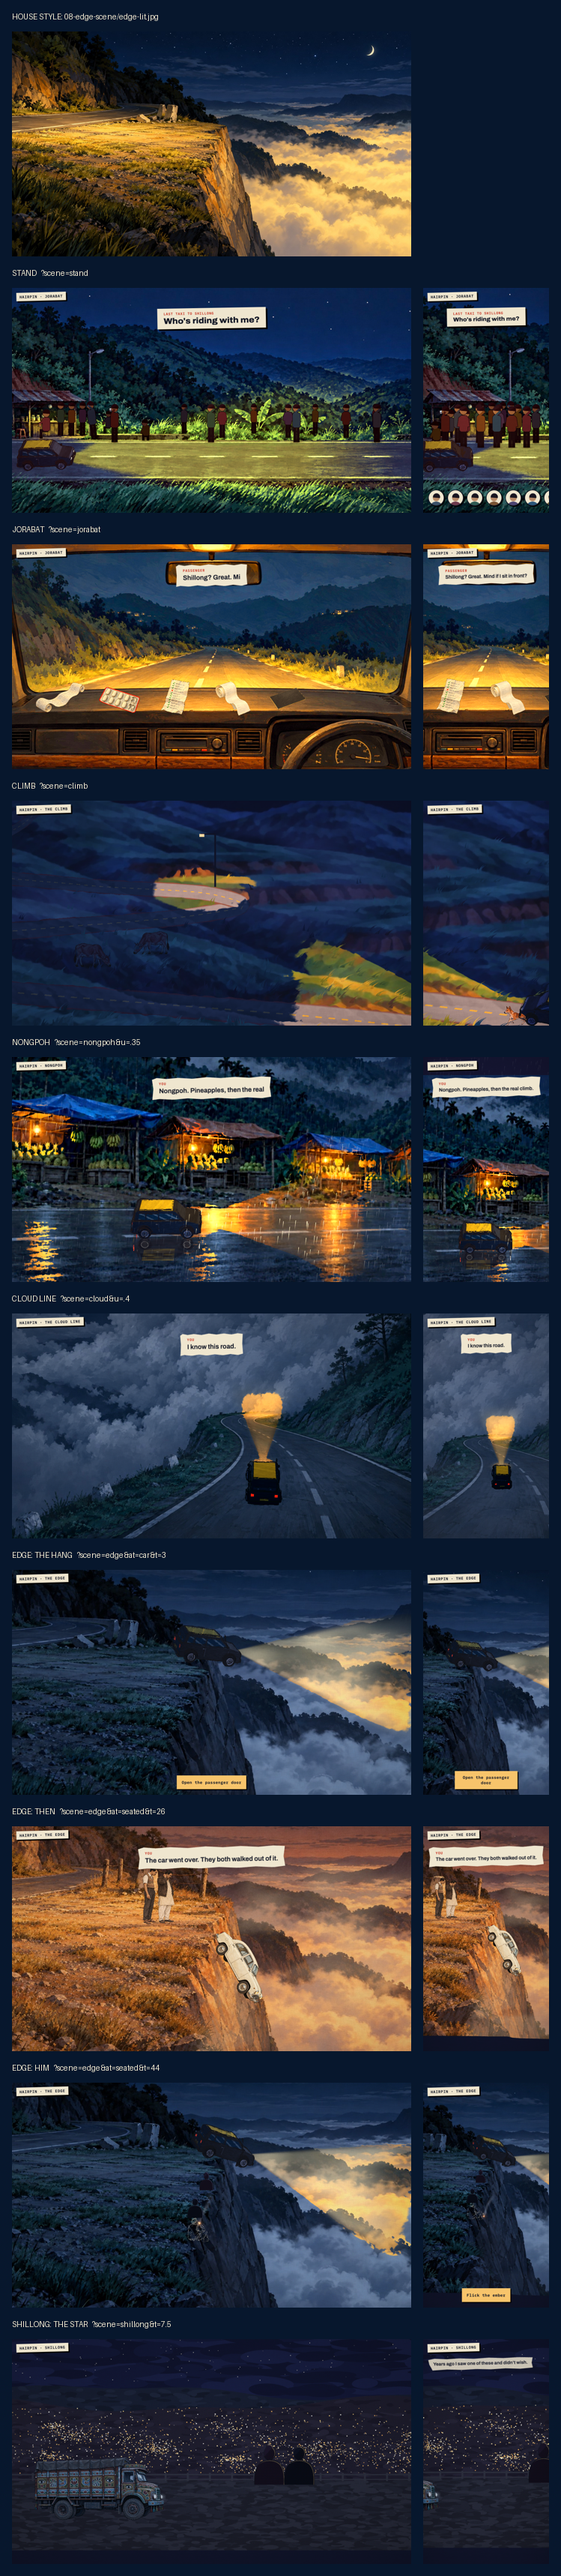
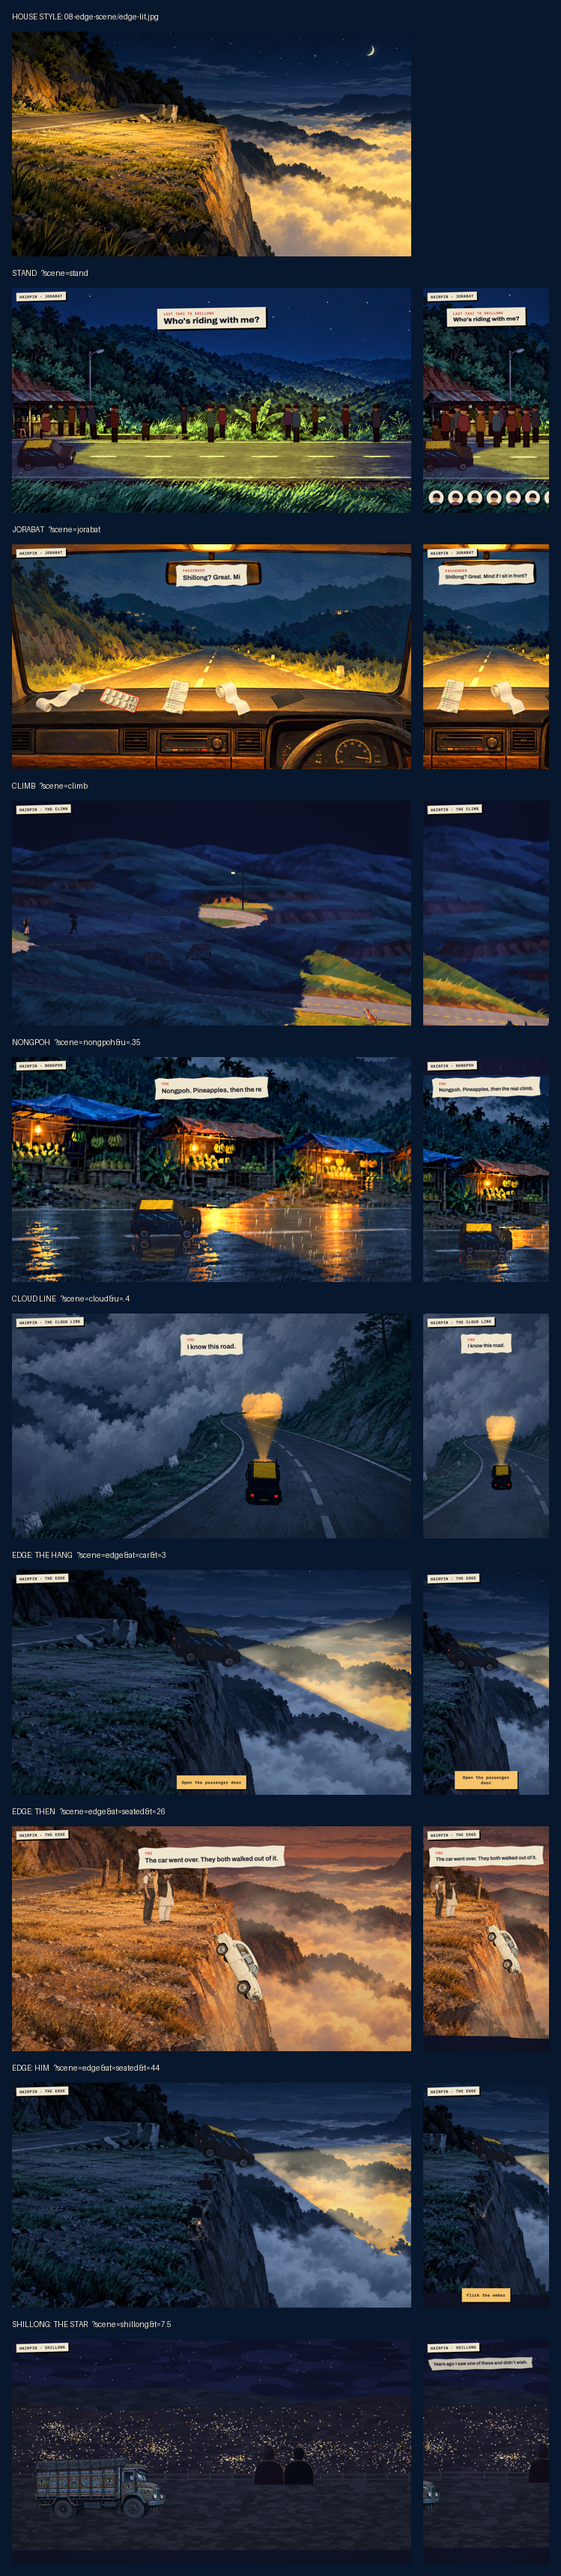
The climb's dog barks before it gives chase
Three painted bark frames (lit and dark) replace the still sitting dog when
the taxi comes up the road or the horn sounds. The chase waits for the bark
to finish, so the whole bark plays before the dog runs.

diff --git a/01-cloud-line-scene/scene.js b/01-cloud-line-scene/scene.js
@@ -5,7 +5,7 @@ import { disposeScene, makeTaxi, colorize, Stage, loadImg as loadImage, keyLight
 import { CLIMB_STANDINS as C } from '../shared/style.js';
 
 const at = f => new URL(f, import.meta.url).href;
-const SPRITES = ['cow-graze', 'cow-look', 'dog-sit', 'dog-run-1', 'dog-run-2', 'walker-1', 'walker-2', 'basket'];
+const SPRITES = ['cow-graze', 'cow-look', 'dog-sit', 'dog-bark-1', 'dog-bark-2', 'dog-bark-3', 'dog-run-1', 'dog-run-2', 'walker-1', 'walker-2', 'basket'];
 export const assets = ['lit.jpg', 'dark.jpg', 'strokes.jpg', 'depth.png', ...SPRITES.flatMap(n => [`sprites/${n}-lit.png`, `sprites/${n}-dark.png`])];
 
 export async function load(ctx) {
@@ -318,7 +318,7 @@ const basket = makePerson(C.basketShirt, C.basketSkirt, c => {
 basket.home = new THREE.Vector2(640, 578); basket.face = new THREE.Vector2(0, 1); basket.kind = 'basket';
 const beings = [...cows, dog, walker, basket];
 for (const b of beings) b.R.visible = false;  // placeholders: replaced by painted cut-outs
-let honkT = 0, lapDogDone = false;
+let honkT = 0, lapDogDone = false, barkT = 0, dogBarked = false;
 const ZERO = new THREE.Vector2(), KEY_TO = new THREE.Vector3();
 const tiltQ = new THREE.Quaternion().setFromAxisAngle(new THREE.Vector3(1, 0, 0), .42), yawQ = new THREE.Quaternion();
 function place(c, x, y, f, par) {
@@ -351,9 +351,12 @@ function updateLife(dt, car, dir, sCar, par) {
     place(c, c.home.x, c.home.y, c.face, par);
   }
   // the dog: sits under the lamp, chases the taxi once per lap, gives up, trots home
-  if (sCar < 5) { lapDogDone = false; }
+  if (sCar < 5) { lapDogDone = false; dogBarked = false; }
   const dd = Math.hypot(dog.pos.x - car.x, (dog.pos.y - car.y) * 1.8);
-  if (dog.state === 'sit' && !lapDogDone && (dd < 330 || honkT > 0 && dd < 900)) { dog.state = 'chase'; dog.until = t + 5.5; bark(); }
+  // the dog sits up and barks at the taxi as it comes (and at the horn), then gives chase
+  barkT = Math.max(0, barkT - dt);
+  if (dog.state === 'sit' && !lapDogDone && !dogBarked && dd < 560) { dogBarked = true; barkT = 1.4; bark(); }
+  if (dog.state === 'sit' && !lapDogDone && barkT <= 0 && (dd < 330 || honkT > 0 && dd < 900)) { dog.state = 'chase'; dog.until = t + 5.5; bark(); }
   if (dog.state === 'chase') {
     const side = roadSide((sCar + (88 + Math.sin(t * 2.3) * 18) * sizeAt(car.y) / 34) / total, 0, 12 * sizeAt(car.y) / 34);   // on the tarmac, just ahead of the bumper, inside the beam
     dog.pos.lerp(new THREE.Vector2(side.x, side.y), damp(4, dt)); dog.face.copy(side.d);
@@ -383,9 +386,9 @@ function updateLife(dt, car, dir, sCar, par) {
 
 /* ---------- painted cut-outs: people and animals as lit/dark sprite pairs ---------- */
 // Each frame lives at sprites/<name>-lit.png and sprites/<name>-dark.png (transparent PNG). Missing files are skipped.
-const SPRITE_H = { 'cow-graze': 1.75, 'cow-look': 1.9, 'dog-sit': 1.1, 'dog-run-1': 1.15, 'dog-run-2': 1.15, 'walker-1': 2.4, 'walker-2': 2.4, 'basket': 2.05 };
+const SPRITE_H = { 'cow-graze': 1.75, 'cow-look': 1.9, 'dog-sit': 1.1, 'dog-bark-1': 1.4, 'dog-bark-2': 1.4, 'dog-bark-3': 1.4, 'dog-run-1': 1.15, 'dog-run-2': 1.15, 'walker-1': 2.4, 'walker-2': 2.4, 'basket': 2.05 };
 // where the eyes are in each frame (uv, figure facing right), so they can catch the headlights
-const EYES = { 'cow-graze': [[.889, .28]], 'cow-look': [[.898, .8], [.788, .791]], 'dog-sit': [[.837, .826]], 'dog-run-1': [[.85, .779]], 'dog-run-2': [[.872, .775]] };
+const EYES = { 'cow-graze': [[.889, .28]], 'cow-look': [[.898, .8], [.788, .791]], 'dog-sit': [[.837, .826]], 'dog-bark-1': [[.83, .866]], 'dog-bark-2': [[.837, .866]], 'dog-bark-3': [[.83, .862]], 'dog-run-1': [[.85, .779]], 'dog-run-2': [[.872, .775]] };
 function trimmed(img) {
   const cv = document.createElement('canvas'); cv.width = img.width; cv.height = img.height;
   const cx = cv.getContext('2d'); cx.drawImage(img, 0, 0);
@@ -488,7 +491,7 @@ function updateSprites(car, par) {
     showFrame(sCows[i], alert && FRAMES['cow-look'] ? 'cow-look' : 'cow-graze', c.home.x, c.home.y, i ? -1 : 1, par);
   });
   const running = dog.state === 'chase' || dog.state === 'home';
-  const dogFrame = running ? (Math.floor(t * 8) % 2 ? 'dog-run-1' : 'dog-run-2') : 'dog-sit';
+  const dogFrame = running ? (Math.floor(t * 8) % 2 ? 'dog-run-1' : 'dog-run-2') : barkT > 0 ? `dog-bark-${[1, 2, 3, 2][Math.floor(t * 9) % 4]}` : 'dog-sit';
   showFrame(sDog, FRAMES[dogFrame] ? dogFrame : 'dog-sit', dog.pos.x, dog.pos.y, dog.face.x, par, running ? Math.abs(Math.sin(t * 16)) * .05 : 0);
   const ws = roadSide(walker.u, -1), stopped = honkT > 0;
   showFrame(sWalker, stopped ? 'walker-1' : (Math.floor(t * 3) % 2 ? 'walker-1' : 'walker-2'), ws.x, ws.y, stopped ? car.x - ws.x : -ws.d.x, par, stopped ? 0 : Math.abs(Math.sin(t * 3 * Math.PI)) * .02);
@@ -565,7 +568,7 @@ function frame(dt) {
 }
 return {
   frame, resize,
-  onHorn() { honkT = 2.2; return false; },   // they look up; the page plays the horn itself
+  onHorn() { honkT = 2.2; if (dog.state === 'sit') { barkT = 1.4; bark(); } return false; },   // they look up; the page plays the horn itself
   dispose() { disposeScene(scene); delete window.__cl; },
 };
 }
